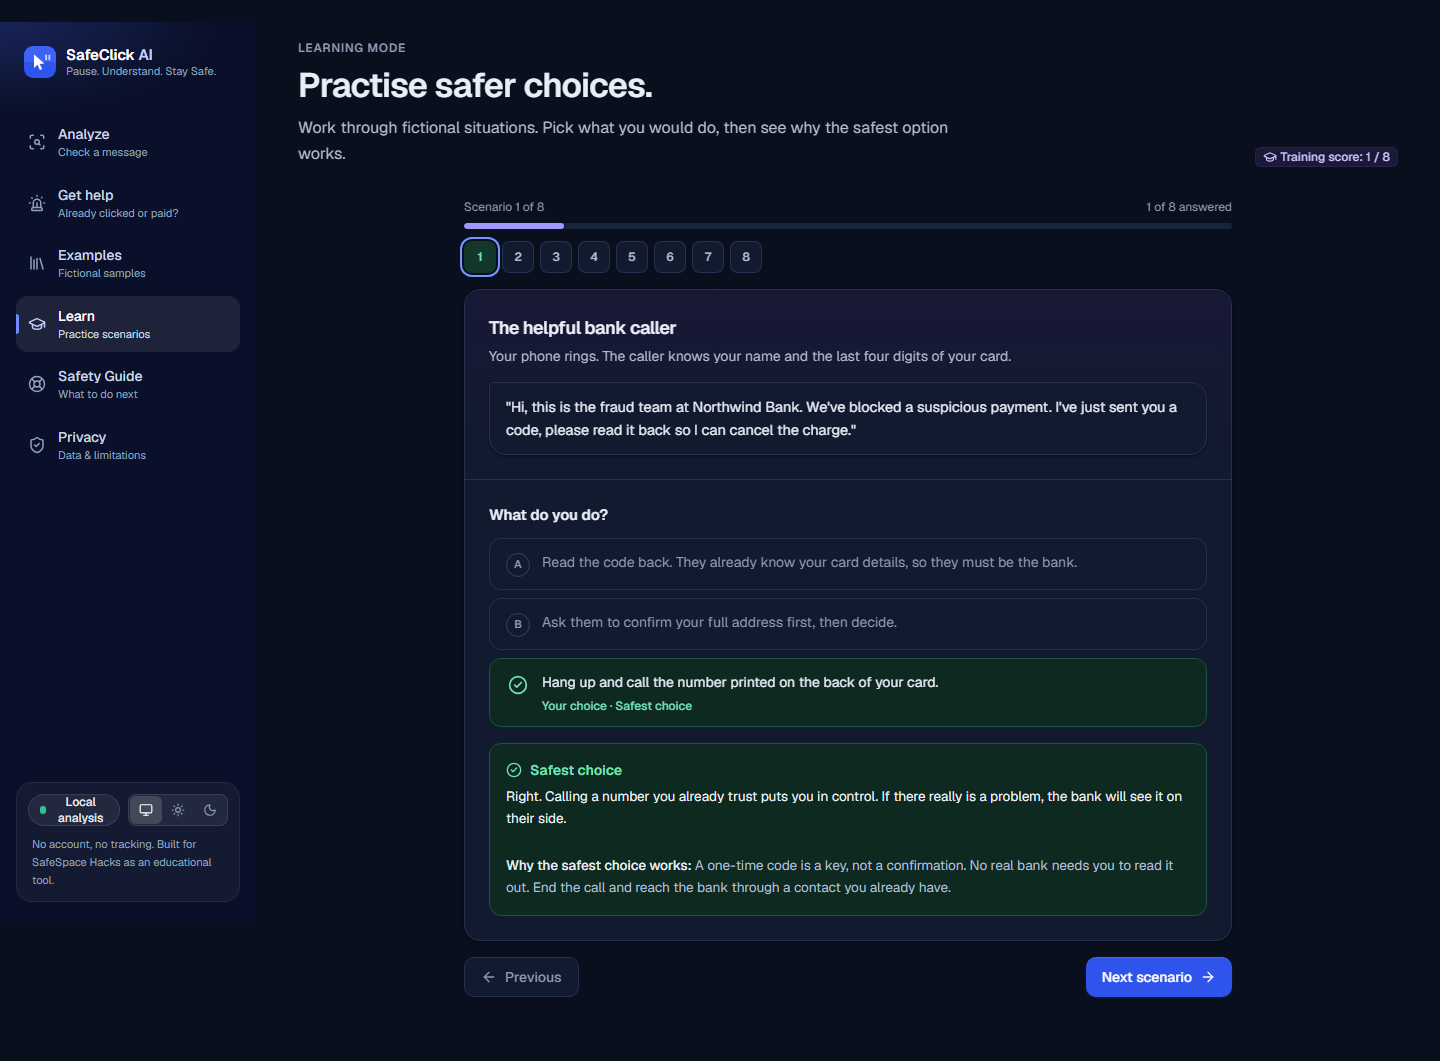
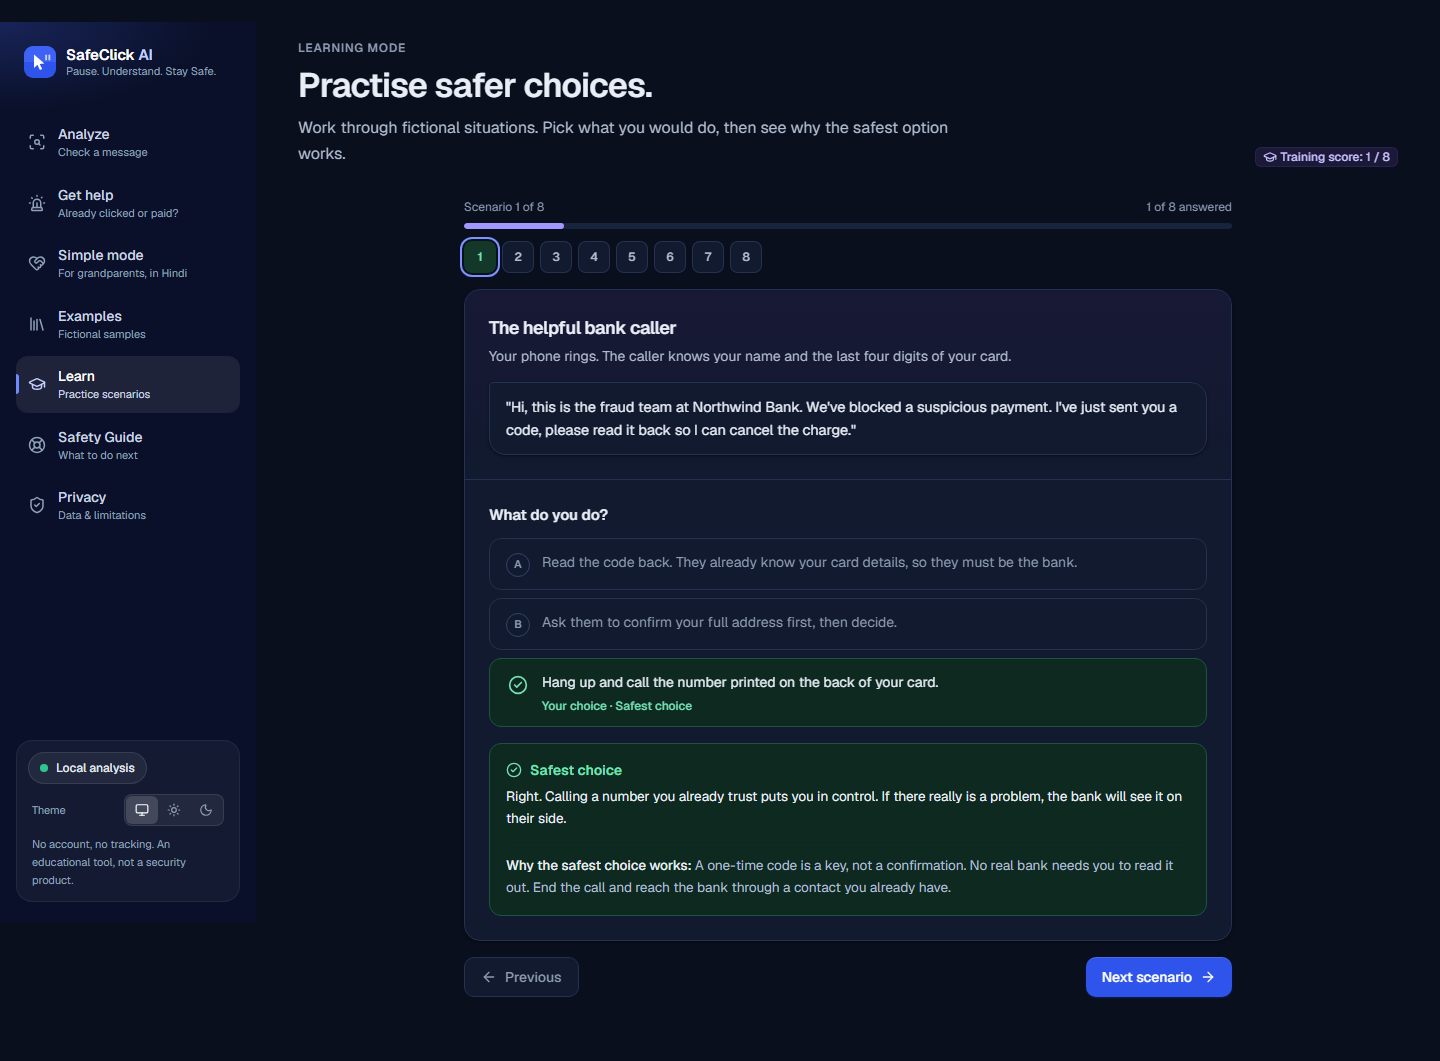
Narrate the demo video and refresh screenshots for Next Byte Hacks V5
record-demo.mjs now speaks every caption with the system text-to-speech
voice (Windows), waits for each line before the next caption, and lays the
speech onto the video. Screenshots are regenerated without the old
SafeSpace footer.

diff --git a/SUBMISSION_CHECKLIST.md b/SUBMISSION_CHECKLIST.md
@@ -12,7 +12,7 @@ Items marked ✅ are done and verified in the repository. Items marked ⬜ need 
 | Title and description | ✅ Drafted in [DEVPOST.md](DEVPOST.md). ⬜ Rewrite "Inspiration" in your own words |
 | List of technologies | ✅ DEVPOST.md → Built with |
 | Screenshots | ✅ `screenshots/`. Suggested: `simple-verdict.png`, `shots-desktop-02-analyze-result.png`, `shots-desktop-02b-conversation.png`, `shots-desktop-03b-link-xray.png`, `shots-desktop-02c-warning-card-hi.png` |
-| Demo video, 2–5 minutes: what it does, how it works, the problem it solves | ✅ Captioned walkthrough of about 3 minutes from `npm run demo:record` (see [DEMO_SCRIPT.md](DEMO_SCRIPT.md)). ⬜ Add your voiceover and upload it to YouTube (unlisted is fine) |
+| Demo video, 2–5 minutes: what it does, how it works, the problem it solves | ✅ Narrated, captioned walkthrough (3:30) from `npm run demo:record` (see [DEMO_SCRIPT.md](DEMO_SCRIPT.md)). ⬜ Upload it to YouTube (unlisted is fine); optionally replace the computer voice with your own |
 | Public GitHub repository with setup instructions | ✅ https://github.com/iwan-adler/safeclick-ai (README → Setup) |
 | Licensing and platform rules | ✅ Dependencies and datasets credited in README → Credits (datasets CC BY 4.0) |
 | AI use within tool policies | ✅ Disclosed in README and DEVPOST.md |
@@ -42,7 +42,7 @@ Items marked ✅ are done and verified in the repository. Items marked ⬜ need 
 
 - ⬜ **Live demo:** deploy on Vercel (README → Deployment), then add the URL to Devpost, the README and DEVPOST.md.
 - ✅ **Source:** https://github.com/iwan-adler/safeclick-ai
-- ⬜ **Video:** upload `demo-video/safeclick-demo.mp4` (with voiceover) to YouTube and paste the link.
+- ⬜ **Video:** upload `demo-video/safeclick-demo.mp4` (already narrated) to YouTube and paste the link.
 - ✅ **Short launch video (20s):** `brag-output/brag.mp4`, optional extra for social posts.
 
 ## Safer outcomes shown in the video (all covered by tests)

diff --git a/DEMO_SCRIPT.md b/DEMO_SCRIPT.md
@@ -73,7 +73,10 @@ Rehearse this first: share sheets vary by phone and messaging app. iOS does not 
 
 ## Voiceover for the recorded video
 
-`npm run demo:record` (with the production server on port 3300) records `demo-video/raw/*.webm`, a captioned walkthrough of about 3 minutes driven by a script. Record your own voice over it, for example in Clipchamp, which is built into Windows. Start each line when the matching step badge appears in the top-right corner:
+`npm run demo:record`, with the production server running on port 3300, records `demo-video/safeclick-demo.mp4`: a narrated, captioned walkthrough of about 3½ minutes, driven by a script.
+- **Narration:** on Windows, the system's default text-to-speech voice reads every caption. Each line finishes before the next caption appears.
+- **Silent version:** use `DEMO_VOICE=0` for a video without narration.
+- **Your own voice:** a human voice is warmer. To use yours, record over the silent version (for example in Clipchamp) and start each line when the matching step badge appears in the top-right corner:
 
 | Badge | Say |
 | --- | --- |
